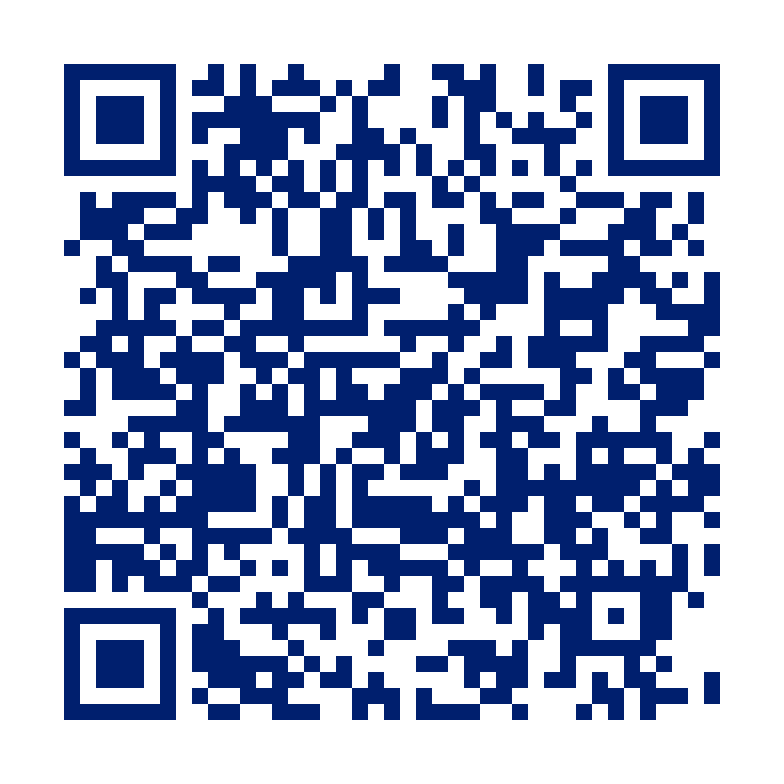
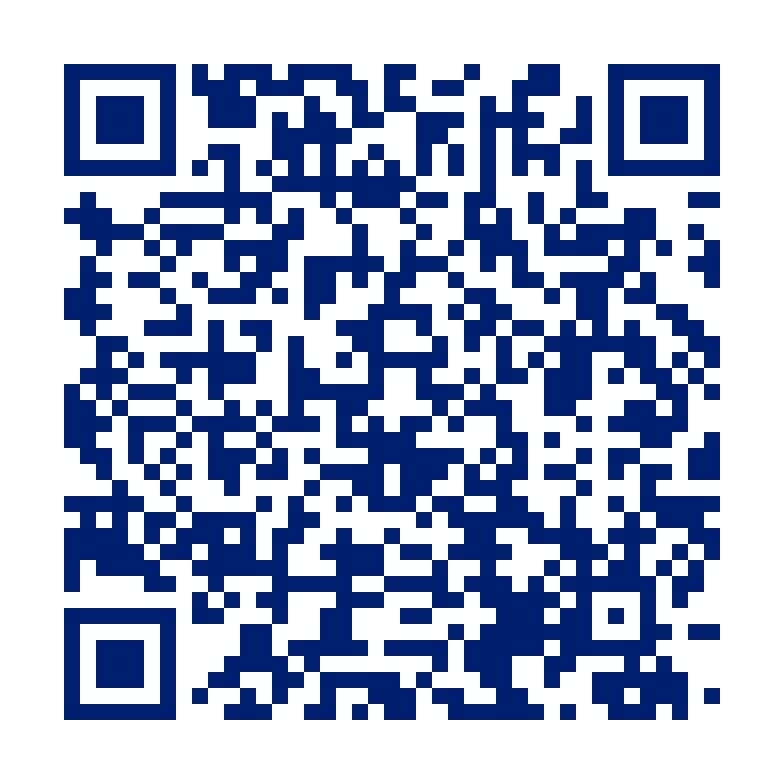
Move site URLs, QR code and form origin to starnex-company.github.io

diff --git a/vite.pages.config.ts b/vite.pages.config.ts
@@ -7,7 +7,7 @@ const fromRoot = (path: string) => fileURLToPath(new URL(path, import.meta.url))
 const baseSegment = (process.env.STARAPP_BASE_PATH ?? '/starapp-landing/').replace(/^\/+|\/+$/g, '');
 const base = baseSegment ? `/${baseSegment}/` : '/';
 const apiOrigin = process.env.STARAPP_API_ORIGIN ?? 'https://starapp-world-stage.bold-crab-5018.chatgpt.site';
-const siteOrigin = process.env.STARAPP_SITE_ORIGIN ?? 'https://starcompanytechng-lab.github.io';
+const siteOrigin = process.env.STARAPP_SITE_ORIGIN ?? 'https://starnex-company.github.io';
 const siteUrl = new URL(base, siteOrigin).href;
 
 for (const [name, value] of [['STARAPP_API_ORIGIN', apiOrigin], ['STARAPP_SITE_ORIGIN', siteOrigin]]) {

diff --git a/lib/waitlist.ts b/lib/waitlist.ts
@@ -11,7 +11,7 @@ export const TALENT_CATEGORIES = [
 export const WAITLIST_BODY_LIMIT = 4096;
 export const WAITLIST_CONSENT_VERSION = "waitlist-v1";
 export const WAITLIST_DAILY_LIMIT = 30;
-const GITHUB_PAGES_ORIGIN = "https://starcompanytechng-lab.github.io";
+const GITHUB_PAGES_ORIGIN = "https://starnex-company.github.io";
 
 export type WaitlistEntry = {
   email: string;

diff --git a/docs/GITHUB-HOSTING.md b/docs/GITHUB-HOSTING.md
@@ -1,8 +1,8 @@
 # GitHub hosting and updates
 
-Repository: https://github.com/starcompanytechng-lab/starapp-landing
+Repository: https://github.com/StarNex-Company/starapp-landing
 
-Website: https://starcompanytechng-lab.github.io/starapp-landing/
+Website: https://starnex-company.github.io/starapp-landing/
 
 GitHub Pages serves the landing page, privacy page, images, fonts, and 3D animation. The existing Cloudflare/Sites backend stores waitlist registrations and privacy requests. GitHub Pages is static hosting and does not run the database or API routes.
 
@@ -45,7 +45,7 @@ Open the printed address with `/starapp-landing/` appended. Preview form submiss
 
 Visual and content changes publish automatically from GitHub. Database/API changes must also be deployed to the existing Sites project `appgprj_6ac918187b788191ae4afe19d7aeff20` using its source workflow. A GitHub Pages deployment alone does not update the server.
 
-Both form endpoints accept the exact GitHub Pages origin `https://starcompanytechng-lab.github.io`, with no wildcard CORS or browser credentials. The backend must allow public visitors for the public site's forms to work. Stored registrations and privacy requests remain available only through the owner's database tools, with no public read endpoint.
+Both form endpoints accept the exact GitHub Pages origin `https://starnex-company.github.io`, with no wildcard CORS or browser credentials. The backend must allow public visitors for the public site's forms to work. Stored registrations and privacy requests remain available only through the owner's database tools, with no public read endpoint.
 
 Email delivery is not connected. A successful form submission confirms database storage, not delivery of a confirmation email. Privacy requests require owner review and do not delete registrations automatically.
 
@@ -57,7 +57,7 @@ References: [GitHub Pages hosting](https://docs.github.com/en/pages/getting-star
 
 ## QR and sharing flow
 
-The QR opens `https://starcompanytechng-lab.github.io/starapp-landing/?via=qr#waitlist`. This is the prerendered landing page with an early-access anchor, so it needs no redirect service, login, or installed app. QR visitors see a welcome message without automatically opening their keyboard. The same-device button takes them directly to the form. Successful signups offer a link back to sharing.
+The QR opens `https://starnex-company.github.io/starapp-landing/?via=qr#waitlist`. This is the prerendered landing page with an early-access anchor, so it needs no redirect service, login, or installed app. QR visitors see a welcome message without automatically opening their keyboard. The same-device button takes them directly to the form. Successful signups offer a link back to sharing.
 
 Native sharing and copy-link use the matching `?via=share#waitlist` URL. Share-sheet cancellation does not copy anything; clipboard failures reveal a selectable link. The `via` marker selects the welcome treatment only; it does not add analytics or send personal information.
 

diff --git a/README.md b/README.md
@@ -2,7 +2,7 @@
 
 A standalone marketing website for StarApp, based on the supplied product document and campaign assets. It includes a custom Three.js rendering of the supplied brand mark, responsive product storytelling, an early-access list, a privacy notice, and privacy-removal requests. This project is independent of Olympus.
 
-Public frontend: [StarApp on GitHub Pages](https://starcompanytechng-lab.github.io/starapp-landing/). Pushes to `main` automatically publish frontend updates. See [GitHub hosting and updates](docs/GITHUB-HOSTING.md) for the editing guide, local static preview, and the separate backend deployment process.
+Public frontend: [StarApp on GitHub Pages](https://starnex-company.github.io/starapp-landing/). Pushes to `main` automatically publish frontend updates. See [GitHub hosting and updates](docs/GITHUB-HOSTING.md) for the editing guide, local static preview, and the separate backend deployment process.
 
 ## Run locally
 
